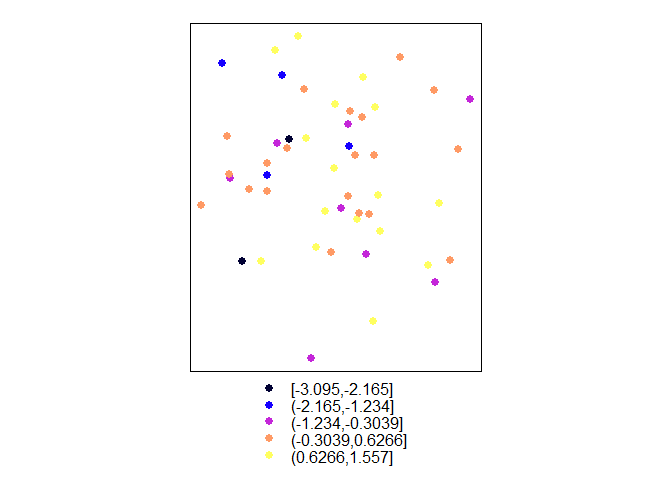
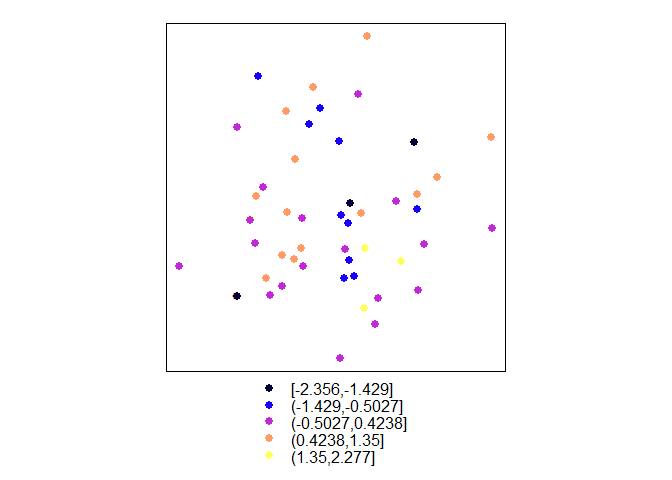
fix list

diff --git a/inst/wiki_r/build_sp_objects.md b/inst/wiki_r/build_sp_objects.md
@@ -26,12 +26,12 @@ pts_df
 
     ## class       : SpatialPointsDataFrame 
     ## features    : 50 
-    ## extent      : 9998285, 10002026, 9997617, 10002091  (xmin, xmax, ymin, ymax)
+    ## extent      : 9997984, 10001852, 9998127, 10002096  (xmin, xmax, ymin, ymax)
     ## crs         : NA 
     ## variables   : 4
     ## names       : id,                x,                y,                 z 
-    ## min values  :  1, 9998285.01098995, 9997616.59055556, -3.09538571551972 
-    ## max values  : 50, 10002025.8798875, 10002091.2699813,   1.5570974895967
+    ## min values  :  1, 9997984.41027698, 9998126.72078958, -2.35571324691835 
+    ## max values  : 50, 10001852.4602494, 10002095.6994395,  2.27684755563907
 
 ``` r
 plot(pts_df)
@@ -47,10 +47,12 @@ spplot(pts_df,zcol="z")
 
 Add projection to pts\_df and write to a shapefile. You will need to
 figure out your projection string if you don’t already have it e.g. you
-can search here <https://www.spatialreference.org/> I have selected this
-projection for this toy example
-<https://www.spatialreference.org/ref/epsg/3692/proj4/> See here for
-more details on projections in R:
+can search here <https://www.spatialreference.org/>
+
+I have selected this projection for this toy example
+<https://www.spatialreference.org/ref/epsg/3692/proj4/>
+
+See here for more details on projections in R:
 <https://www.nceas.ucsb.edu/sites/default/files/2020-04/OverviewCoordinateReferenceSystems.pdf>
 
 ``` r
@@ -117,16 +119,16 @@ knitr::kable(tail(pts_df_sf3,10))
 
 |  id |        x |        y |           z | geom                                  |
 | --: | -------: | -------: | ----------: | :------------------------------------ |
-|  91 |  9999414 | 10001557 | \-1.4595434 | c(9999414.04700753, 10001557.1365606) |
-|  92 | 10000429 | 10000437 |   0.5722351 | c(10000428.8416258, 10000436.964889)  |
-|  93 |  9999117 |  9998967 |   1.0501996 | c(9999117.24538207, 9998967.25172398) |
-|  94 | 10001590 |  9999770 |   1.1175232 | c(10001589.9282678, 9999770.00705002) |
-|  95 | 10000681 |  9998141 |   0.7169341 | c(10000681.0917206, 9998140.57344528) |
-|  96 | 10002026 | 10001224 | \-0.3941971 | c(10002025.8798875, 10001224.0407698) |
-|  97 | 10000364 | 10001058 | \-0.2907666 | c(10000363.7089478, 10001058.1739811) |
-|  98 |  9999313 | 10001898 |   0.6855996 | c(9999313.2620974, 10001898.0015291)  |
-|  99 | 10000336 |  9999873 | \-0.2435500 | c(10000335.9842157, 9999872.97254523) |
-| 100 | 10000748 |  9999882 |   0.8211040 | c(10000747.6798099, 9999882.26440262) |
+|  91 | 10001836 | 10000850 |   0.5230587 | c(10001835.5248805, 10000849.8098901) |
+|  92 | 10000196 | 10001391 |   0.4044145 | c(10000196.2468382, 10001391.0639922) |
+|  93 |  9999515 |  9999271 |   0.3180471 | c(9999514.55360924, 9999270.85250652) |
+|  94 | 10000145 |  9999145 | \-0.8426701 | c(10000144.6427581, 9999144.91457721) |
+|  95 |  9998958 | 10001604 | \-1.2854673 | c(9998958.03162424, 10001603.9169134) |
+|  96 | 10000266 |  9998748 |   1.3701244 | c(10000266.3213565, 9998747.71445456) |
+|  97 |  9999504 |  9999852 | \-0.1164864 | c(9999504.25057151, 9999851.52824152) |
+|  98 | 10000067 |  9999796 | \-1.3871063 | c(10000066.603716, 9999795.92690404)  |
+|  99 |  9999057 |  9999115 |   0.6286760 | c(9999056.72463724, 9999115.36243029) |
+| 100 |  9999647 | 10001475 |   0.7904661 | c(9999646.67910557, 10001475.3238518) |
 
 ``` r
 #DT::datatable(pts_df_sf3)
@@ -142,19 +144,23 @@ bf1
 
     ## class       : SpatialPolygonsDataFrame 
     ## features    : 50 
-    ## extent      : 9998284, 10002027, 9997616, 10002092  (xmin, xmax, ymin, ymax)
+    ## extent      : 9997983, 10001853, 9998126, 10002097  (xmin, xmax, ymin, ymax)
     ## crs         : +proj=lcc +lat_0=45.3333333333333 +lon_0=-120.5 +lat_1=47.3333333333333 +lat_2=45.8333333333333 +x_0=500000.0001016 +y_0=0 +ellps=GRS80 +towgs84=0,0,0,0,0,0,0 +units=us-ft +no_defs 
     ## variables   : 4
     ## names       : id,                x,                y,                 z 
-    ## min values  :  1, 9998285.01098995, 9997616.59055556, -3.09538571551972 
-    ## max values  : 50, 10002025.8798875, 10002091.2699813,   1.5570974895967
+    ## min values  :  1, 9997984.41027698, 9998126.72078958, -2.35571324691835 
+    ## max values  : 50, 10001852.4602494, 10002095.6994395,  2.27684755563907
 
-Making a SpatialPolygonsDataFrame manually is a lot of work 1. create
-single polygon objects sp::Polygon(coords, hole=as.logical(NA)) 2. make
-a list of polygon objects and combine polygons sp::Polygons(srl, ID) 3.
-combine list of Polygons sp::SpatialPolygons(Srl, pO,
-proj4string=CRS(as.character(NA))) 4. finally, merge spatial data with
-data frame sp::SpatialPolygonsDataFrame(Sr, data, match.ID = TRUE)
+Making a SpatialPolygonsDataFrame manually is a lot of work
+
+1.  create single polygon objects sp::Polygon(coords,
+    hole=as.logical(NA))
+2.  make a list of polygon objects and combine polygons
+    sp::Polygons(srl, ID)
+3.  combine list of Polygons sp::SpatialPolygons(Srl, pO,
+    proj4string=CRS(as.character(NA)))
+4.  finally, merge spatial data with data frame
+    sp::SpatialPolygonsDataFrame(Sr, data, match.ID = TRUE)
 
 now lets make a circle
 
@@ -333,8 +339,8 @@ buffer lines to make polygons
     ## crs         : NA 
     ## variables   : 2
     ## names       : id,             someY 
-    ## min values  :  a, 0.235655449790582 
-    ## max values  :  b,  1.49752103707727
+    ## min values  :  a, 0.391637205985057 
+    ## max values  :  b, 0.725868369157742
 
 ``` r
   par(mfrow=c(1,2))
